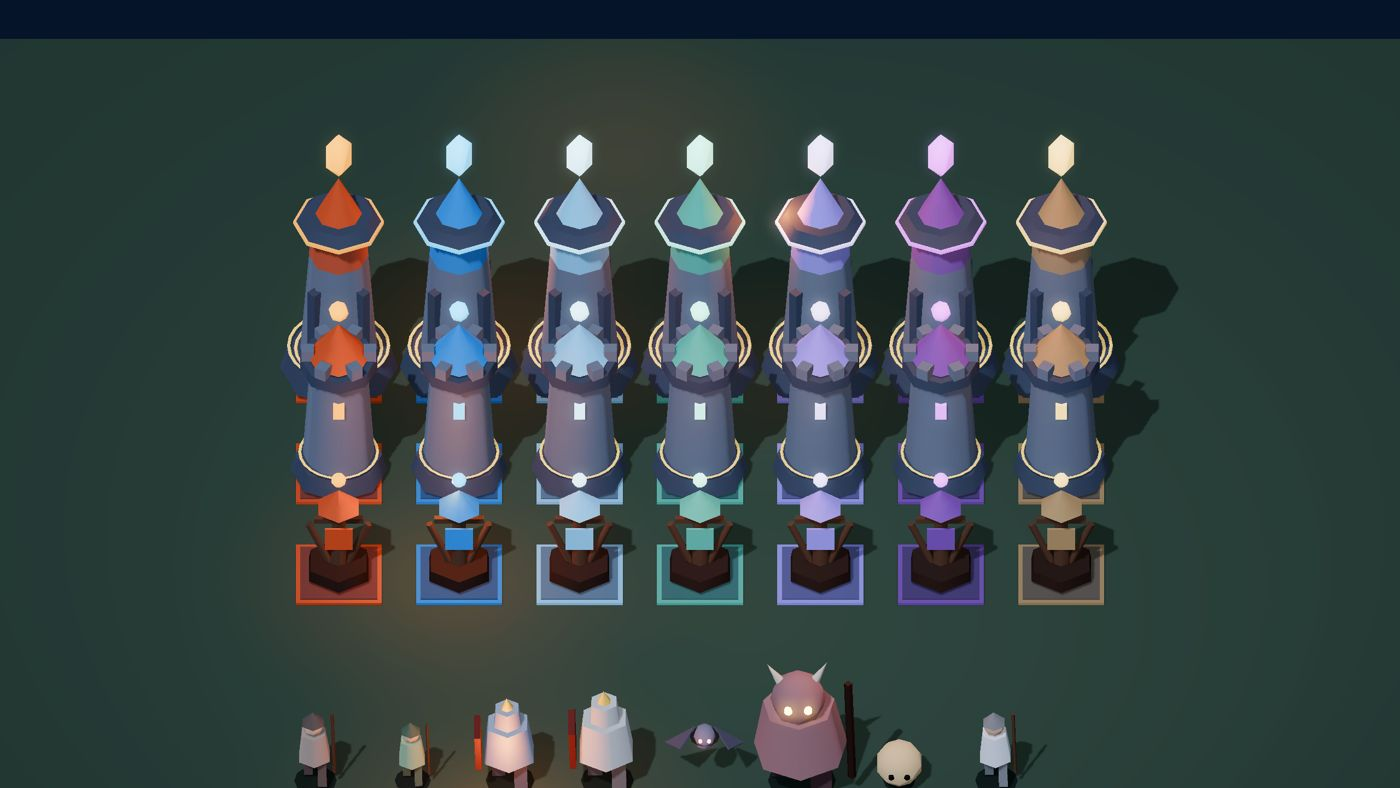
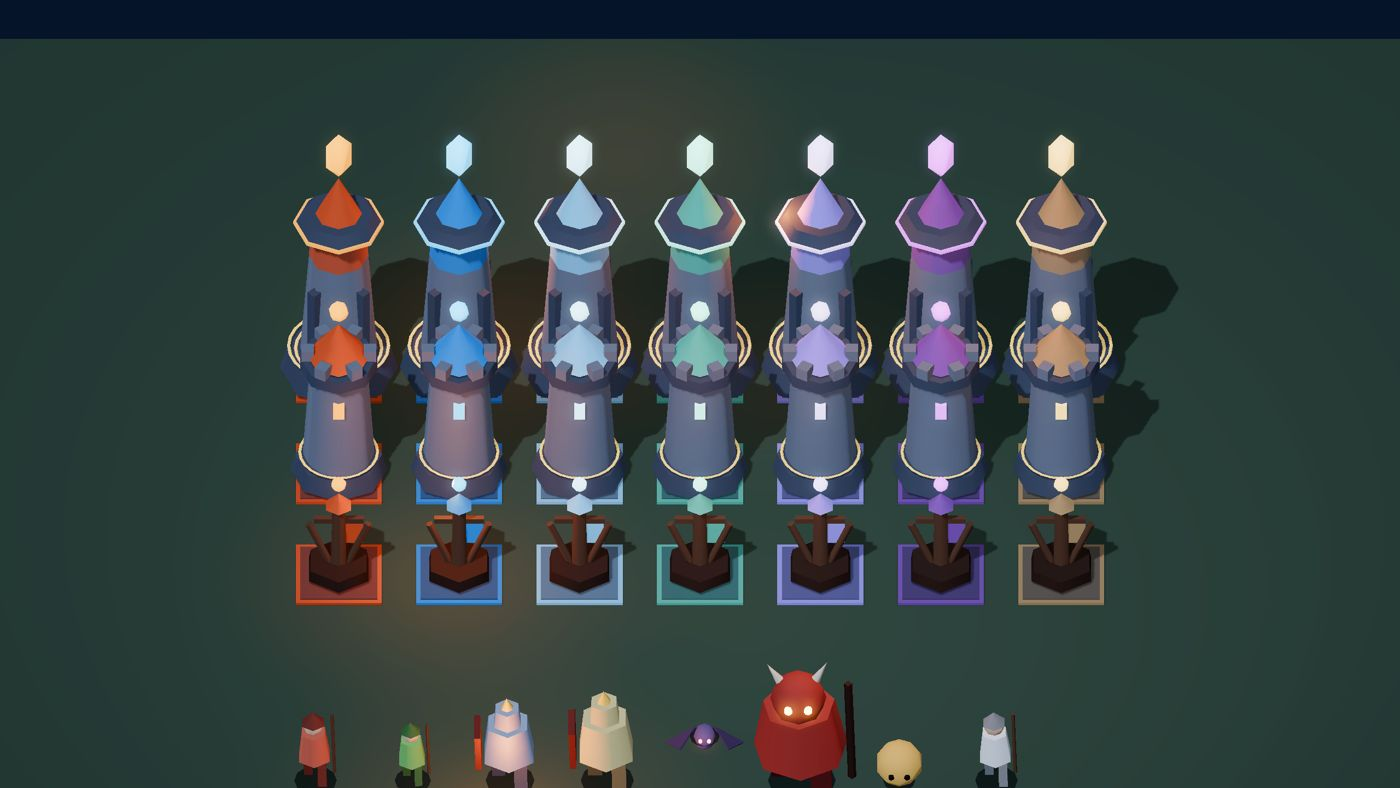
3D-MVP: насыщенные цвета юнитов, пост тира 1 с флажком, кадр нагрузки в отчёте

diff --git a/docs/presentation/2026-11-03-3d-mvp.html b/docs/presentation/2026-11-03-3d-mvp.html
@@ -101,6 +101,8 @@ ol.rounds li{margin:10px 0}
 <li>Юниты: шаг и покачивание в темпе реальной скорости (замедление — медленнее шаг), нетопырь машет крыльями над дорогой, колобок катится. Смерть — вспышка и исчезновение. HP — полоска над головой, статусы — кольца вокруг тела.</li>
 </ul>
 
+<div class="solo"><figure><img class="shot" src="2026-11-03-3d-mvp/stress.jpg" alt="Нагрузка" loading="lazy"><figcaption>Нагрузочный замер: по 150 мобов на каждом поле — 65–68 FPS</figcaption></figure></div>
+
 <h2>Решения (проверить утром)</h2>
 <div class="panel warn">
 <ul>
